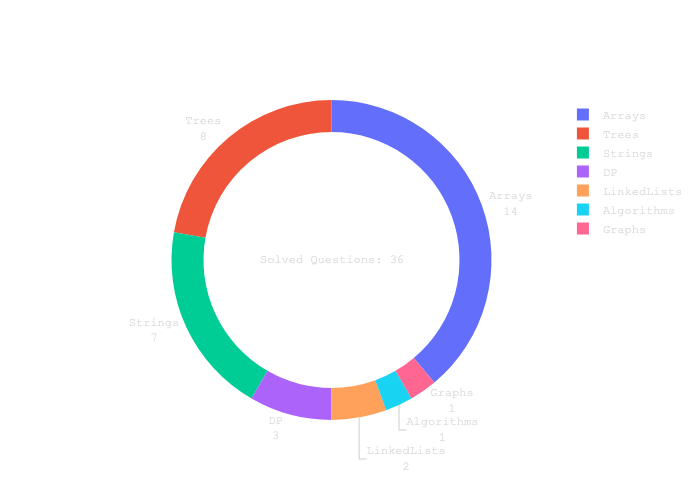
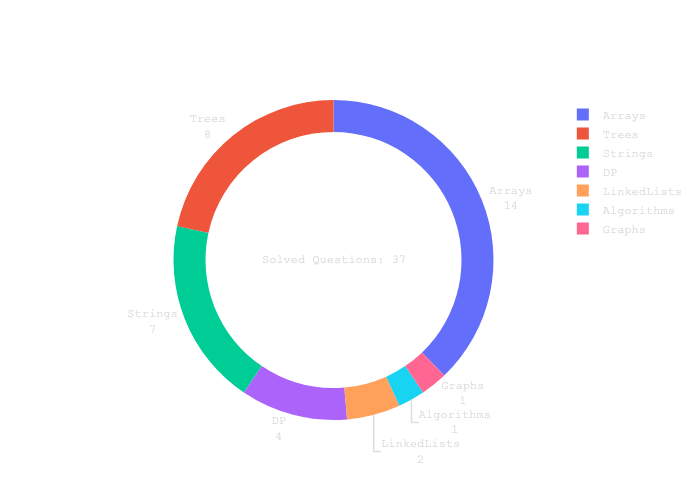
word break

diff --git a/DP/wordBreak.py b/DP/wordBreak.py
@@ -1,0 +1,22 @@
+from typing import List
+
+
+def wordBreak(s: str, wordDict) -> bool:
+    wordDict = set(wordDict)
+    N = len(s)
+    dp = [False] * (N + 1)
+    dp[N] = True
+    for i in range(N - 1, -1, -1):
+        for w in wordDict:
+            if i + len(w) <= N and s[i : i + len(w)] == w:
+                dp[i] = dp[i + len(w)]
+
+    return dp[0]
+
+
+print(wordBreak("leetcode", ["leet", "code"]))
+print(wordBreak("applepenapple", wordDict=["apple", "pen"]))
+print(wordBreak(s="catsandog", wordDict=["cats", "dog", "sand", "and", "cat"]))
+print(wordBreak(s="abcd", wordDict=["a", "abc", "b", "cd"]))
+
+# cat, cats, sand, and, dog

diff --git a/chart.py b/chart.py
@@ -32,7 +32,6 @@ def get_files_in_folders(folders: List[str]) -> Dict[str, List[str]]:
             for file in listdir(join(DIR, folder))
             if isfile(join(DIR, folder, file)) and file not in IGNORED_FILES
         ]
-    print(files)
     return files
 
 
